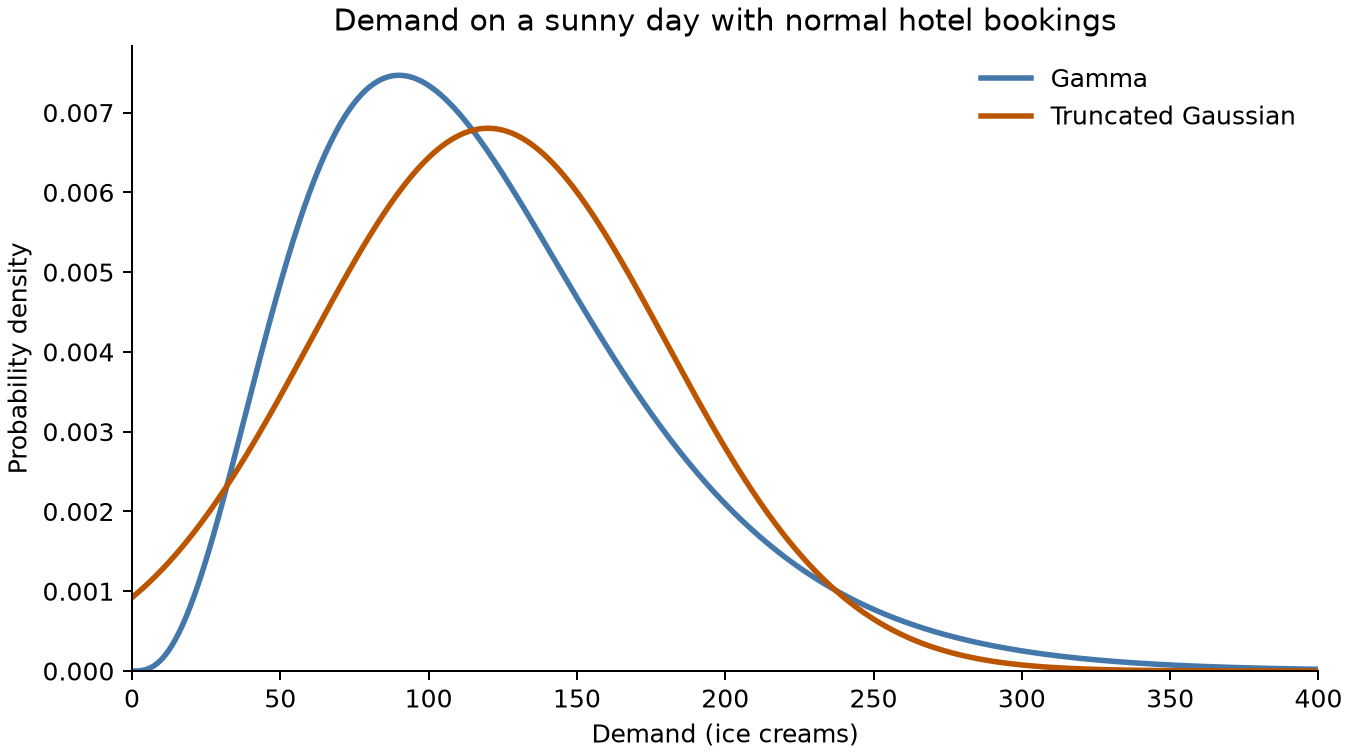
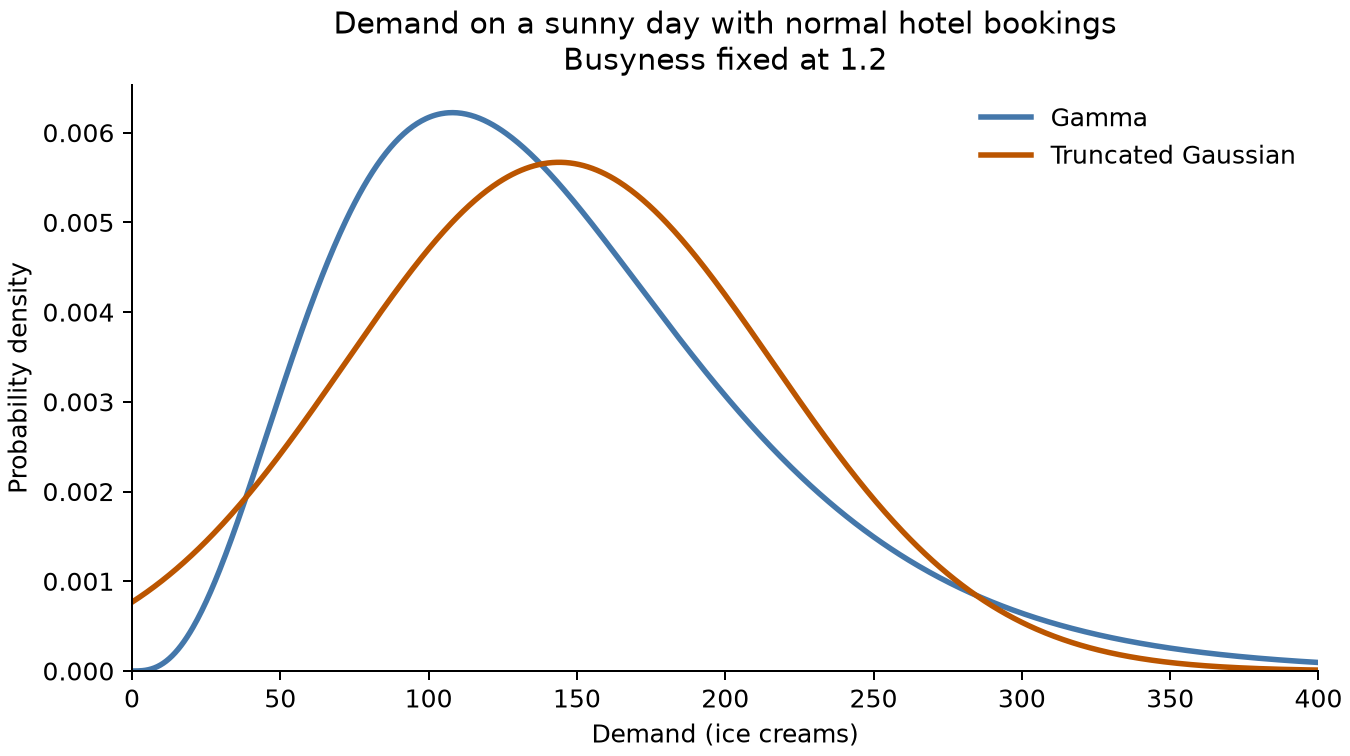
update distributions with priors and numpyro refs

diff --git a/docs/_static/figures/distributions_and_utilities/plot_demand_comparison.py b/docs/_static/figures/distributions_and_utilities/plot_demand_comparison.py
@@ -16,10 +16,11 @@ import matplotlib.pyplot as plt
 import numpyro.distributions as dist
 
 DEMAND_MEANS = jnp.array([40.0, 120.0])
-BOOKINGS_BOOST = jnp.array([1.0, 1.5])
+BUSYNESS_MEAN = 1.2
+BOOKINGS_BOOST = jnp.array([1.0, 1.15])
 
-# Sunny weather and normal hotel bookings, as in the figure caption.
-mean = DEMAND_MEANS[1] * BOOKINGS_BOOST[0]
+# Sunny weather, normal bookings and busyness fixed at the prior mean.
+mean = DEMAND_MEANS[1] * BUSYNESS_MEAN * BOOKINGS_BOOST[0]
 distributions = [
     (dist.Gamma(concentration=4.0, rate=4.0 / mean), "Gamma", "#4477aa"),
     (
@@ -38,7 +39,10 @@ for distribution, label, color in distributions:
 ax.set(
     xlabel="Demand (ice creams)",
     ylabel="Probability density",
-    title="Demand on a sunny day with normal hotel bookings",
+    title=(
+        "Demand on a sunny day with normal hotel bookings\n"
+        f"Busyness fixed at {BUSYNESS_MEAN:g}"
+    ),
     xlim=(0, 400),
     ylim=(0, None),
 )

diff --git a/docs/user_guide/distributions_and_utilities.md b/docs/user_guide/distributions_and_utilities.md
@@ -6,28 +6,30 @@ kernelspec:
 
 # Distributions and utilities
 
-In [Building a diagram](building_a_diagram.md), we assigned a distribution to each chance node and a utility function to the `profit` node. But why those distributions in particular? Could we, for example, assume that demand is Gaussian instead of Gamma? What would happen if we split the utility function into revenue and cost?
+In [Building a diagram](building_a_diagram.md), we assigned a distribution to each chance node and a utility function to the `profit` node. But why those distributions in particular? Could we, for example, assume that demand is Gaussian instead of {py:class}`Gamma <numpyro.distributions.continuous.Gamma>`? What would happen if we split the utility function into revenue and cost?
 
 This page answers those questions using the same ice cream shop example. It also explains what these functions receive from their parents and how to write them so PyLIMID can run them with JAX.
 
 ## What do the functions receive?
 
-PyLIMID calls each function with one keyword argument per parent, **matched by name**. For example, `demand` has `weather` and `bookings` as parents, which are **discrete chance nodes**, so its distribution function receives their values as state indices:
+PyLIMID calls each function with one keyword argument per parent, **matched by name**. For `demand`, the discrete parents `weather` and `bookings` pass state indices, while the continuous parent `busyness` passes a numerical multiplier:
 
 ```{code-cell} ipython3
 import jax.numpy as jnp
 import numpyro.distributions as dist
 
 DEMAND_MEANS = jnp.array([40.0, 120.0])
-BOOKINGS_BOOST = jnp.array([1.0, 1.5])
+BUSYNESS_MEAN = 1.2
+BUSYNESS_LOG_SD = 0.1
+BOOKINGS_BOOST = jnp.array([1.0, 1.15])
 
 
-def demand_dist(weather, bookings):
-    mean = DEMAND_MEANS[weather] * BOOKINGS_BOOST[bookings]
+def demand_dist(weather, busyness, bookings):
+    mean = DEMAND_MEANS[weather] * busyness * BOOKINGS_BOOST[bookings]
     return dist.Gamma(concentration=4.0, rate=4.0 / mean)
 ```
 
-For `weather`, `0` means `"cloudy"` and `1` means `"sunny"`. For `bookings`, they mean `"normal"` and `"high"`. The function uses those indices to look up the demand mean and the booking multiplier, then returns a [NumPyro distribution](https://num.pyro.ai/en/stable/distributions.html).
+For `weather`, `0` means `"cloudy"` and `1` means `"sunny"`. For `bookings`, they mean `"normal"` and `"high"`. The function uses those indices to look up the demand mean and the booking multiplier, then returns a {py:class}`NumPyro distribution <numpyro.distributions.distribution.Distribution>`.
 
 The `profit` function receives two parent values:
 
@@ -60,26 +62,38 @@ def bookings_dist():
 
 The probabilities follow the same order as the state labels: `"cloudy"` and `"sunny"` for weather, `"normal"` and `"high"` for bookings. Neither node has parents, so these functions take no arguments.
 
-With `states=None`, use a continuous distribution. Count distributions such as Poisson and Binomial are not currently supported.
+With `states=None`, use a continuous distribution. The `busyness` node uses the {py:class}`LogNormal <numpyro.distributions.continuous.LogNormal>` prior:
 
-We chose a {py:class}`Gamma distribution <numpyro.distributions.continuous.Gamma>` to model `demand` because it is strictly positive and can naturally model quiet days alongside some unusually busy ones. Even though ice creams are counted in whole numbers, we use a continuous distribution to approximate demand. We use `concentration=4.0`, so its standard deviation is half its mean.
+```{code-cell} ipython3
+def busyness_dist():
+    return dist.LogNormal(
+        jnp.log(BUSYNESS_MEAN) - BUSYNESS_LOG_SD**2 / 2, BUSYNESS_LOG_SD
+    )
+```
+
+```{admonition} Count distributions
+:class: info
+Count distributions such as {py:class}`Poisson <numpyro.distributions.discrete.Poisson>` and {py:func}`Binomial <numpyro.distributions.discrete.Binomial>` are not currently supported.
+```
+
+We chose a {py:class}`Gamma <numpyro.distributions.continuous.Gamma>` distribution to model `demand` because it is strictly positive and can naturally model quiet days alongside some unusually busy ones. Even though ice creams are counted in whole numbers, we use a continuous distribution to approximate demand. We use `concentration=4.0`, so for fixed parent values its standard deviation is half its mean.
 
 ### What if demand were Gaussian?
 
-Suppose the owner believes that demand is distributed more symmetrically around its mean. A Gaussian distribution could express that assumption, but it could also produce negative values. Since demand cannot be negative, we use [NumPyro's `TruncatedNormal`](https://num.pyro.ai/en/stable/distributions.html#numpyro.distributions.truncated.TruncatedNormal) with a lower bound of zero:
+Suppose the owner believes that demand is distributed more symmetrically around its mean. A Gaussian distribution could express that assumption, but it could also produce negative values. Since demand cannot be negative, we use NumPyro's {py:class}`TruncatedNormal <numpyro.distributions.truncated.TruncatedNormal>` with a lower bound of zero:
 
 ```{code-cell} ipython3
-def nonnegative_demand(weather, bookings):
-    mean = DEMAND_MEANS[weather] * BOOKINGS_BOOST[bookings]
+def nonnegative_demand(weather, busyness, bookings):
+    mean = DEMAND_MEANS[weather] * busyness * BOOKINGS_BOOST[bookings]
     return dist.TruncatedNormal(loc=mean, scale=mean / 2, low=0.0)
 ```
 
 Here `loc` and `scale` are the mean and standard deviation of the Gaussian before truncation. We set `loc` to the mean used in `demand_dist` and `scale` to half of it. Restricting the distribution to nonnegative values raises its actual mean above `loc`, so the two distributions do not have exactly the same average demand.
 
-We can see the difference between these assumptions by plotting both distributions for a sunny day with normal hotel bookings. The Gamma curve has a longer tail towards high demand, while the truncated Gaussian is more symmetric around its peak:
+We can compare both distributions for a sunny day with normal hotel bookings, fixing `busyness` at its prior mean of 1.2. The Gamma curve has a longer tail towards high demand, while the truncated Gaussian is more symmetric around its peak:
 
 ```{figure} /_static/figures/distributions_and_utilities/demand_comparison.png
-:alt: Gamma and truncated Gaussian demand densities for sunny weather and normal hotel bookings. The Gamma curve has a longer right tail.
+:alt: Gamma and truncated Gaussian demand densities for sunny weather, normal hotel bookings and busyness fixed at 1.2. The Gamma curve has a longer right tail.
 :width: 90%
 ```
 
@@ -96,11 +110,14 @@ diagram = InfluenceDiagram()
 diagram.add_node(
     ChanceNode(name="weather", states=("cloudy", "sunny"), dist=weather_dist)
 )
+diagram.add_node(ChanceNode(name="busyness", dist=busyness_dist))
 diagram.add_node(
     ChanceNode(name="bookings", states=("normal", "high"), dist=bookings_dist)
 )
 diagram.add_node(
-    ChanceNode(name="demand", parents=("weather", "bookings"), dist=demand_dist)
+    ChanceNode(
+        name="demand", parents=("weather", "busyness", "bookings"), dist=demand_dist
+    )
 )
 diagram.add_node(
     DecisionNode(

diff --git a/README.md b/README.md
@@ -16,6 +16,7 @@ Rather than requiring every chance and utility node to be represented as a table
 ## Features
 
 - **Flexible distributions.** A chance node is a NumPyro distribution whose parameters can be any JAX expression of its parents, so you are not limited to a conditional probability table.
+- **Bayesian priors.** Represent uncertain model parameters as chance nodes with prior distributions.
 - **Utilities as functions.** A utility is a Python function of its parents written with JAX, so it can express thresholds, nonlinearities, or risk preferences instead of a lookup table.
 - **Mixed inference.** Posteriors are computed by exact enumeration for discrete nodes and by MCMC sampling (NUTS) for continuous ones, so a single diagram can combine both.
 
@@ -41,7 +42,9 @@ pip install "pylimid[cuda13]"  # CUDA 13, for newer drivers
 
 ## Example
 
-A small shop sells ice cream. Every morning the owner checks the weather forecast and decides how many ice creams to stock, from 0 to 200 in steps of 20. Each ice cream costs \$1 and sells for \$10, and anything not sold by the evening is thrown away. The forecast is cloudy with probability 0.7 and sunny with probability 0.3, and demand is uncertain either way: about 40 ice creams on an average cloudy day and 120 on an average sunny one. How many should the shop stock?
+A small shop sells ice cream. Every morning the owner checks the weather forecast and decides how many ice creams to stock, from 0 to 200 in steps of 20. Each ice cream costs \$1 and sells for \$10, and anything not sold by the evening is thrown away. The forecast is cloudy with probability 0.7 and sunny with probability 0.3. Past seasons suggest average demand of 40 ice creams on cloudy days and 120 on sunny days. The owner expects the coming season to be busier, but is uncertain about how much. How many should the shop stock?
+
+We express that belief with a Bayesian prior on a positive `busyness` multiplier. Its LogNormal distribution has mean 1.2, representing 20% higher average demand, and a log-scale standard deviation of 0.1. Demand depends on both the weather and this unknown multiplier.
 
 ```python
 import jax.numpy as jnp
@@ -51,11 +54,14 @@ from pylimid import ChanceNode, DecisionNode, InfluenceDiagram, UtilityNode, sol
 
 WEATHER_STATES = ("cloudy", "sunny")
 DEMAND_MEANS = jnp.array([40.0, 120.0])
+BUSYNESS_MEAN = 1.2
+BUSYNESS_LOG_SD = 0.1
 ORDERS = jnp.arange(0, 201, 20)
 
 
-def demand_dist(weather):
-    return dist.Gamma(concentration=4.0, rate=4.0 / DEMAND_MEANS[weather])
+def demand_dist(weather, busyness):
+    mean = busyness * DEMAND_MEANS[weather]
+    return dist.Gamma(concentration=4.0, rate=4.0 / mean)
 
 
 def profit(order, demand):
@@ -71,7 +77,17 @@ diagram.add_node(
         dist=lambda: dist.Categorical(probs=jnp.array([0.7, 0.3])),
     )
 )
-diagram.add_node(ChanceNode(name="demand", parents=("weather",), dist=demand_dist))
+diagram.add_node(
+    ChanceNode(
+        name="busyness",
+        dist=lambda: dist.LogNormal(
+            jnp.log(BUSYNESS_MEAN) - BUSYNESS_LOG_SD**2 / 2, BUSYNESS_LOG_SD
+        ),
+    )
+)
+diagram.add_node(
+    ChanceNode(name="demand", parents=("weather", "busyness"), dist=demand_dist)
+)
 diagram.add_node(
     DecisionNode(
         name="order", parents=("weather",), states=tuple(str(n) for n in ORDERS)
@@ -82,13 +98,13 @@ diagram.add_node(UtilityNode(name="profit", parents=("order", "demand"), values=
 solution = solve(diagram, num_samples=50_000)
 for info, action in solution.policy["order"].items():
     print(f"{WEATHER_STATES[info[0]]}: stock {int(ORDERS[action])}")
-# cloudy: stock 60
+# cloudy: stock 80
 # sunny: stock 200
 ```
 
-`weather` is a discrete chance node, `demand` is a continuous one, `order` is the decision, and `profit` is the utility. The decision's parents are what is known when it is made, so `order` sees the weather but not the demand. Note that `order` is the index of the chosen action, which is why `profit` looks the stock level up in `ORDERS`.
+`weather` is a discrete chance node, `busyness` and `demand` are continuous ones, `order` is the decision, and `profit` is the utility. The decision's parents are what is known when it is made, so `order` sees the weather while `busyness` and `demand` remain unknown. Note that `order` is the index of the chosen action, which is why `profit` looks the stock level up in `ORDERS`.
 
-The shop should stock far more than the average demand: a missed sale loses \$9 of margin, while a leftover ice cream only costs \$1. The [quickstart](https://pylimid.readthedocs.io/en/latest/getting_started/quickstart.html) walks through this example step by step.
+The shop should stock far more than the average demand: a missed sale loses \$9 of margin, while a leftover ice cream only costs \$1. The sunny-day order reaches the maximum possible order of 200. The [quickstart](https://pylimid.readthedocs.io/en/latest/getting_started/quickstart.html) walks through this example step by step.
 
 ## Documentation
 

diff --git a/TODO.md b/TODO.md
@@ -4,9 +4,9 @@ Forward plan. The engine work is done (numpyro-only, scan + batched scan + backw
 
 ## 1. Finish discrete decisions
 
-- **Bayesian priors as a feature.** A parameter of a distribution can itself be a chance node with a prior, which lets a model encode personal experience, such as the ice cream shop owner's belief about tomorrow's weather or their insight on demand. List it under Features in `docs/index.md` and `README.md`, and show it in the docs, for example as an extension of the quickstart. Things to know first:
+- **Bayesian priors as a feature.** A parameter of a distribution can itself be a chance node with a prior, which lets a model encode personal experience, such as the ice cream shop owner's belief about tomorrow's weather or their insight on demand. List it under Features in `docs/index.md` and `README.md`, and show it in the docs, for example as an extension of the quickstart. The [working draft](design/bayesian_priors.md) records the verified example and publication checklist. Things to know first:
   - Scalar priors already work in `solve` and `infer`: a `Beta` prior on the chance of sun, or a `LogNormal` scale on the demand mean, solves and updates correctly after an observation.
-  - Pick the example carefully. A prior on the weather probabilities alone leaves the quickstart's policy unchanged, since only its mean matters for a single forecast. A prior on demand does change it (a cloudy-day stock of 80 instead of 60), so it is the more convincing demonstration.
+  - Choose the prior to match the story. The quickstart's owner expects a season 20% busier on average, with about 95% of the multiplier's probability within ±20% of that expectation. A LogNormal with mean 1.2 and log-scale standard deviation 0.1 changes the policy from 60/200 to 80/200. This reflects both a higher expected demand and uncertainty about it; do not widen the prior just to force a different action. A prior on weather probabilities alone leaves the policy unchanged, since weather is observed before ordering and conditional demand is unchanged.
 
 ## 3. Continuous decisions (afterwards)
 

diff --git a/docs/user_guide/multiple_decisions.md b/docs/user_guide/multiple_decisions.md
@@ -10,7 +10,7 @@ So far, the shop's owner has faced a single choice: how many ice creams to order
 
 There are now two decisions. First, the owner must choose whether to run the promotion or not. Then, in the morning (when the weather is known), the owner must decide how much stock to order.
 
-This page shows how to represent those choices, read their policies and explore the resulting profits. We keep the weather, bookings and Gamma demand from the previous pages, with the wider order menu from the [Solving](solving.md) guide. Bookings remain unknown at both decisions.
+This page shows how to represent those choices, read their policies and explore the resulting profits. We keep the weather, bookings and {py:class}`Gamma <numpyro.distributions.continuous.Gamma>` demand from the previous pages, with the wider order menu from the [Solving](solving.md) guide. Bookings remain unknown at both decisions.
 
 ## Adding the promotion decision
 
